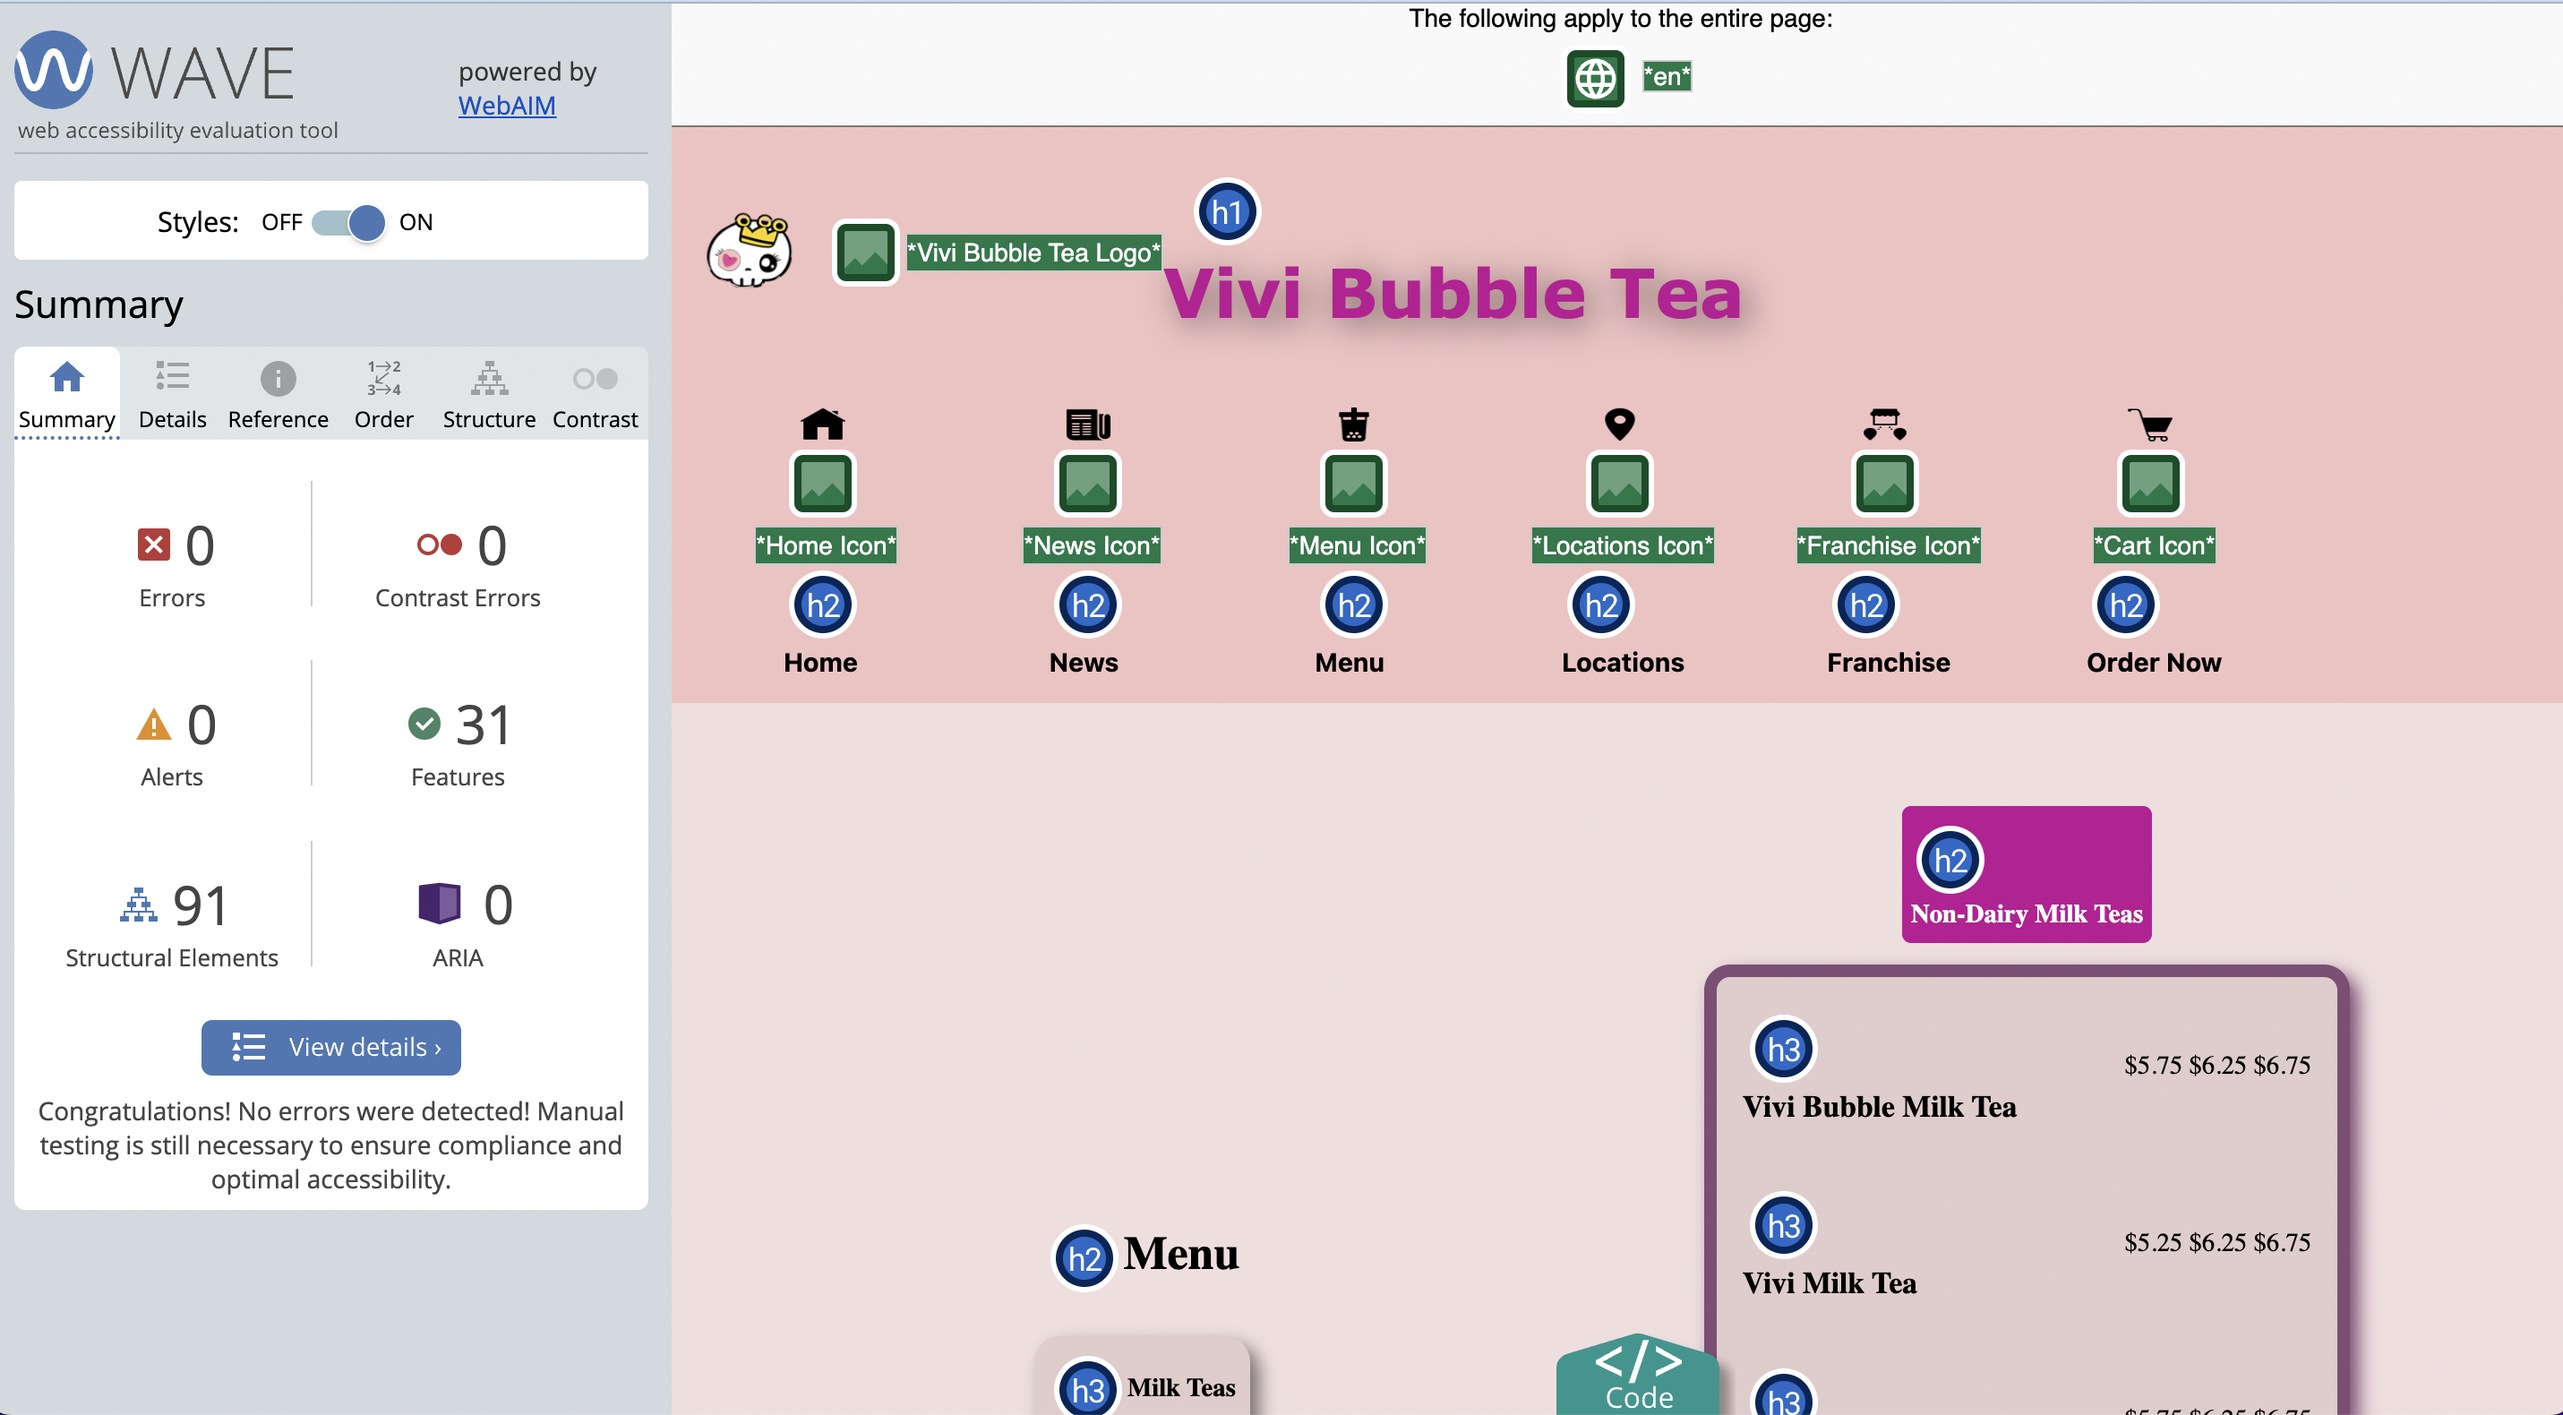
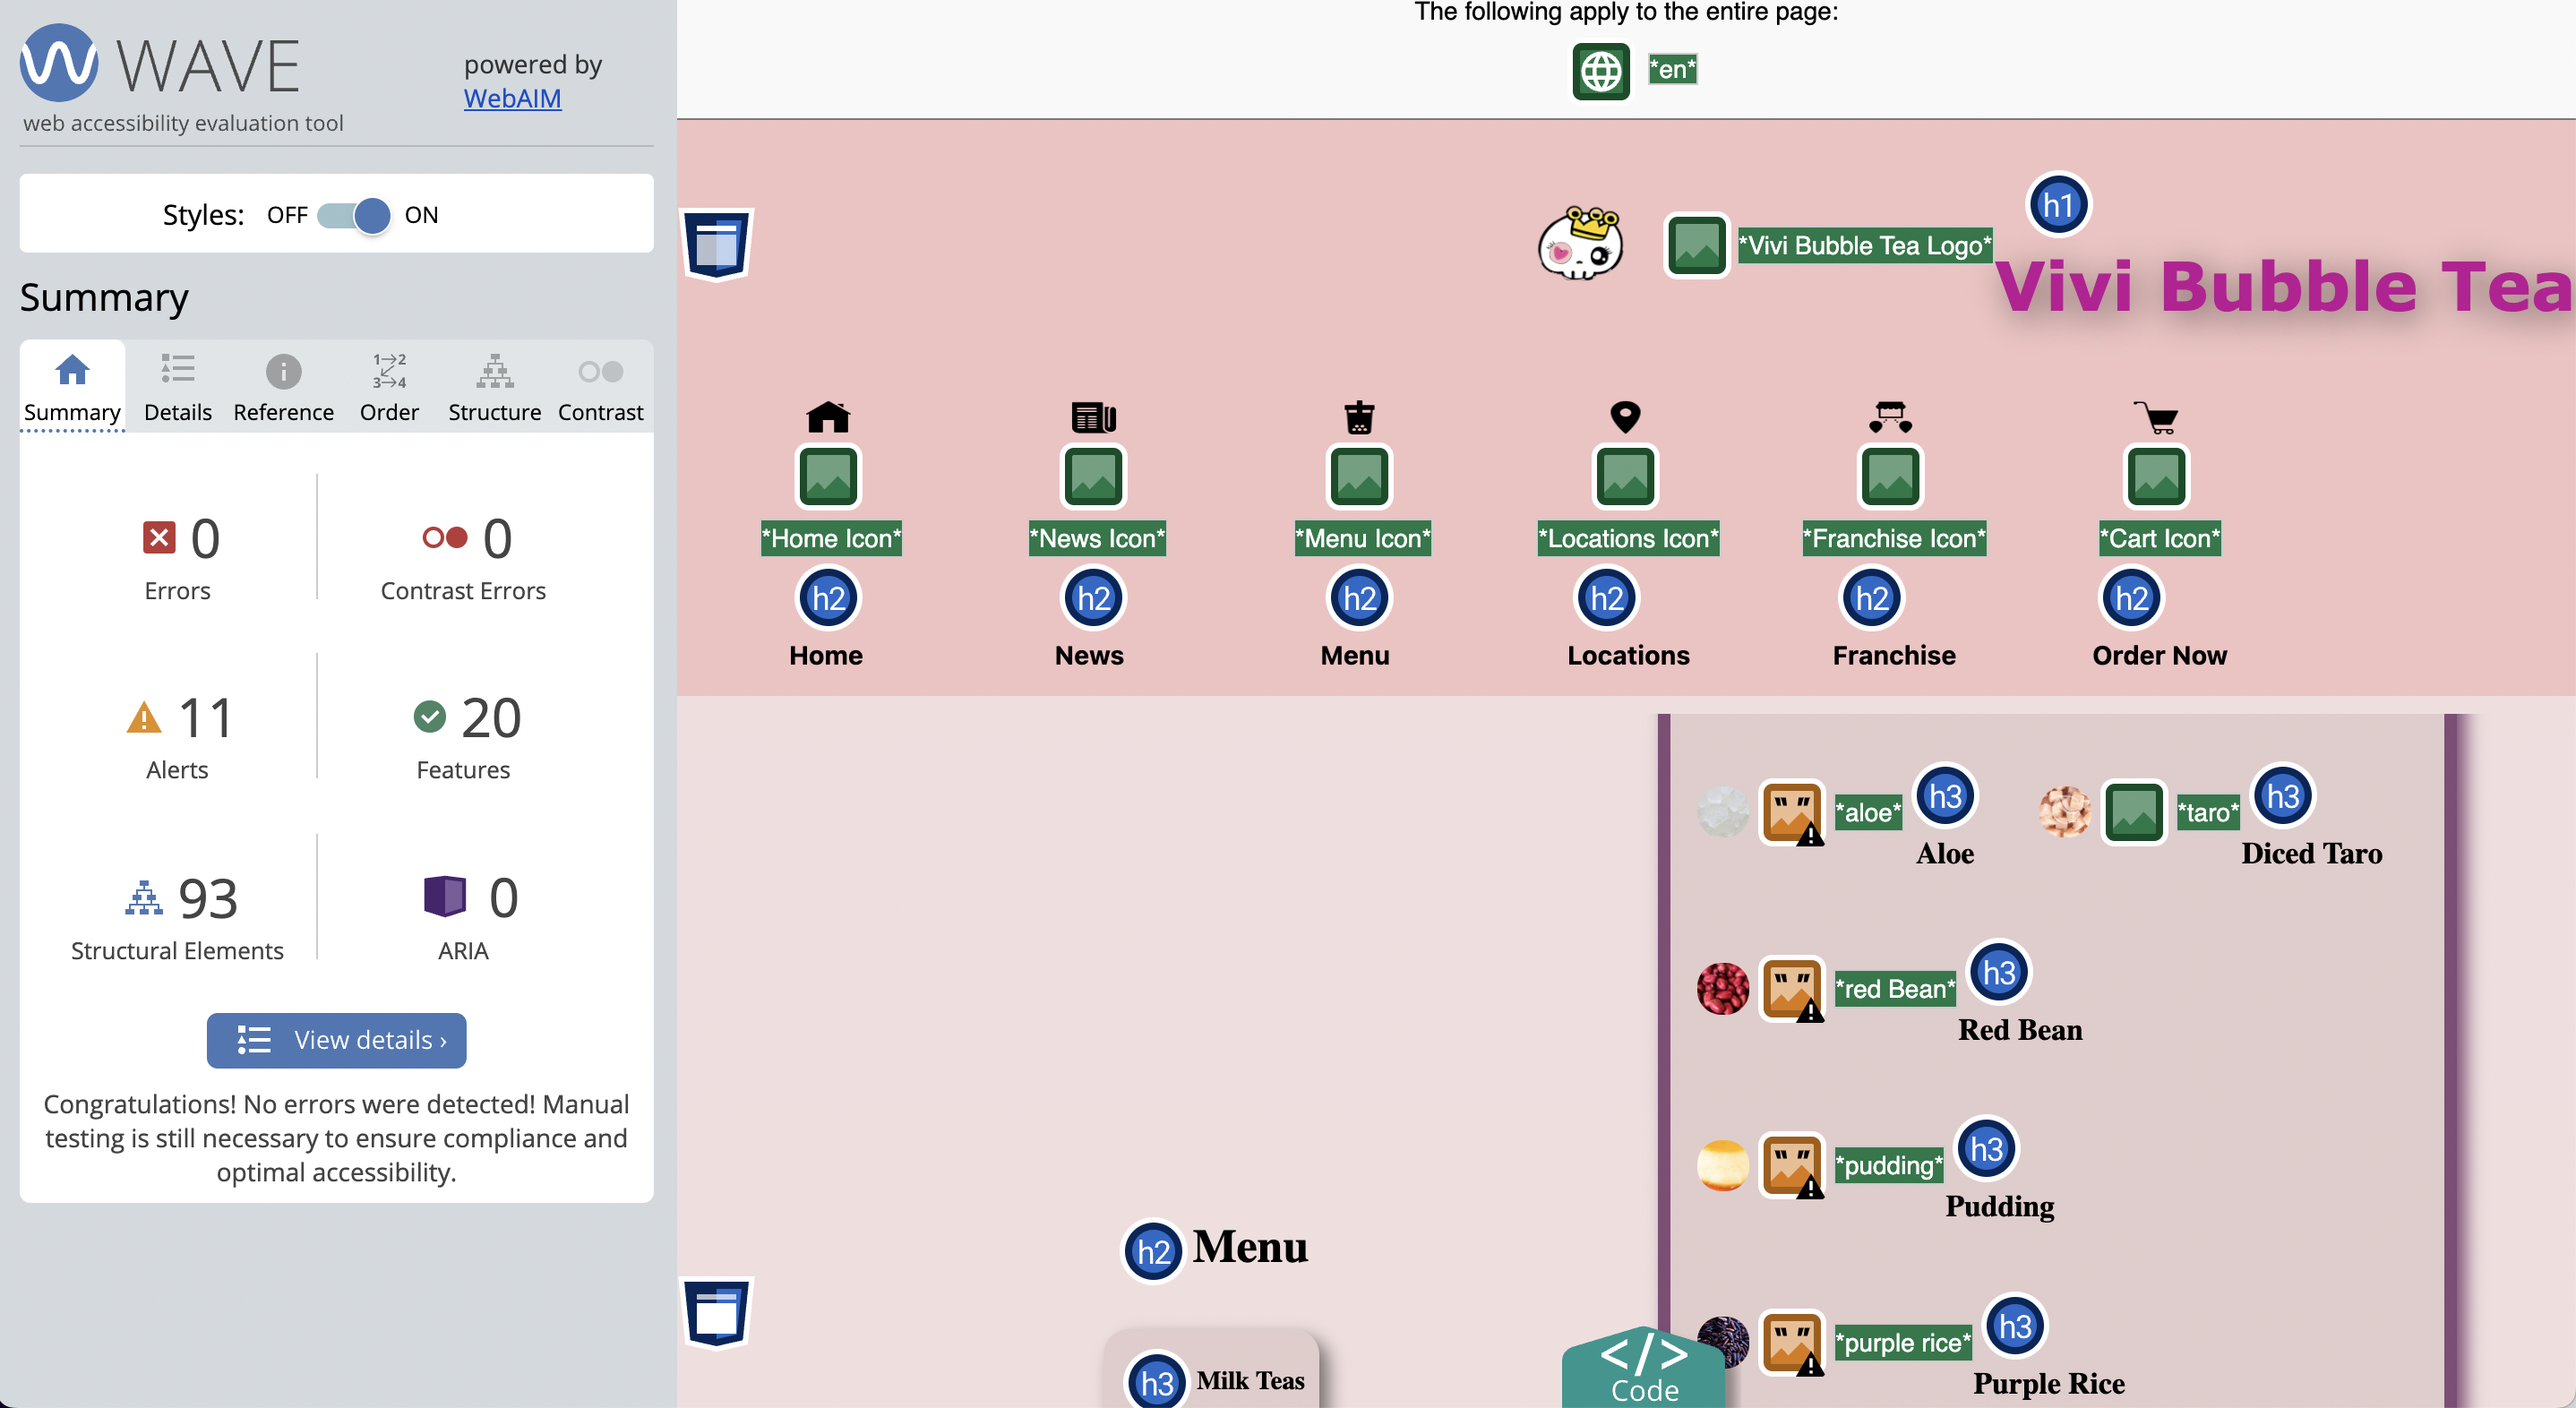
finalized

diff --git a/responsive_redesign/index.html b/responsive_redesign/index.html
@@ -201,7 +201,7 @@
     <p>
       The page can be accessed at
       <a
-        href="https://sandra-sandoval.github.io/cs1300-writeups/redesign-development/"
+        href="https://sandra-sandoval.github.io/cs1300-writeups/redesign-development copy/"
         >Vivi Bubble Tea Redesign</a
       >
     </p>
@@ -218,6 +218,7 @@
     <img src="assets/redesignPhoneView.png" , alt="redesign phone view" , width="500px" , height="800px" />
     <h4>WebAIM Report after redesign</h4>
     <img src="assets/webAIM.png" , alt="webAIM report for redesign" , width="800px" , height="500px" />
+    <p> While there remains alerts in the webAIM report, all the alerts are due to redundant alt text. However, I have chosen to stick with alt messages on the toppings images to ensure people using screen readers have a clear understanding of the types of toppings available.</p>
     <h2>
       Conclusion
     </h2>
